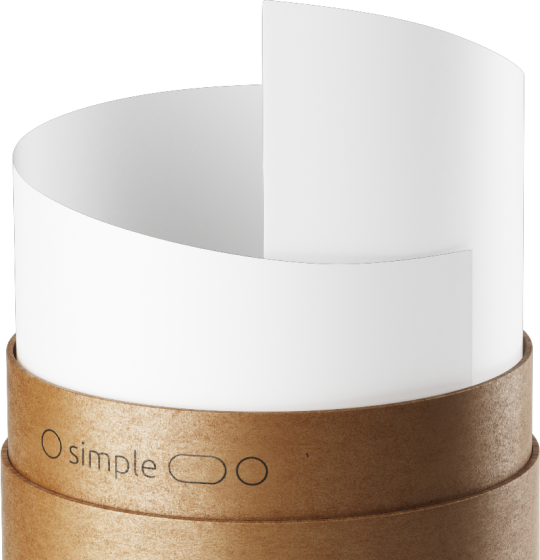
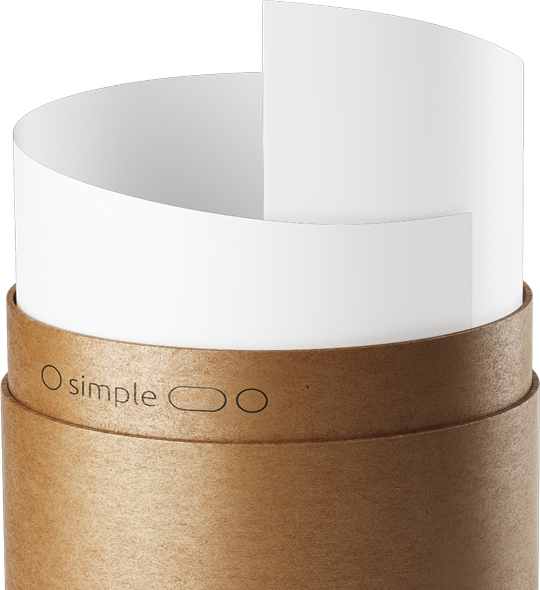
Add widget Partners

diff --git a/src/components/widgets/Products/products.data.ts b/src/components/widgets/Products/products.data.ts
@@ -10,7 +10,7 @@ export const products = [
 		circulation: 20,
 		description:
 			"Сделано из крафт-бумаги или плотного картона. Упаковки имеют различные формы и расцветки, изготовим форму под заказ.",
-		delay: 0.2
+		delay: 0.4
 	},
 	{
 		image: ProductImageTwo,
@@ -18,7 +18,7 @@ export const products = [
 		circulation: 200,
 		description:
 			"С прямоугольным дном. От 10 см до 60 см по высоте. Материалы: картон, крафт-бумага. Различные расцветки и дизайн.",
-		delay: 0.4
+		delay: 0.6
 	},
 	{
 		image: ProductImageThree,
@@ -26,7 +26,7 @@ export const products = [
 		circulation: 30,
 		description:
 			"Подойдет для документов и других бумаг. Различные расцветки, размеры и плотность. Материал: прессованная бумага.",
-		delay: 0.6
+		delay: 0.8
 	},
 	{
 		image: ProductImageFour,
@@ -34,6 +34,6 @@ export const products = [
 		circulation: 100,
 		description:
 			"Нестандартные упаковки, кейсы и другие изделия различных размеров и конфигураций. Изготовим в кратчайшие сроки.",
-		delay: 0.8
+		delay: 1.0
 	}
 ]

diff --git a/src/components/widgets/Partners/partners.data.ts b/src/components/widgets/Partners/partners.data.ts
@@ -1,0 +1,32 @@
+import PartnerLogoOne from "../../../assets/images/sponsor_1.png"
+import PartnerLogoTwo from "../../../assets/images/sponsor_2.png"
+import PartnerLogoThree from "../../../assets/images/sponsor_3.png"
+import PartnerLogoFour from "../../../assets/images/sponsor_4.png"
+import type { PartnerType } from "./partner.type.ts"
+
+export const partners: Array<PartnerType> = [
+	{
+		image: PartnerLogoOne,
+		title: "Hahnemuhle",
+		initial: { x: -100, opacity: 0 },
+		whileInView: { x: 0, opacity: 1 }
+	},
+	{
+		image: PartnerLogoTwo,
+		title: "Canson",
+		initial: { y: 100, opacity: 0 },
+		whileInView: { y: 0, opacity: 1 }
+	},
+	{
+		image: PartnerLogoThree,
+		title: "Royal Talens",
+		initial: { y: 100, opacity: 0 },
+		whileInView: { y: 0, opacity: 1 }
+	},
+	{
+		image: PartnerLogoFour,
+		title: "Fabriano",
+		initial: { x: 100, opacity: 0 },
+		whileInView: { x: 0, opacity: 1 }
+	}
+]

diff --git a/src/components/widgets/Partners/Partners.tsx b/src/components/widgets/Partners/Partners.tsx
@@ -1,0 +1,34 @@
+import { type FC } from "react"
+import { motion } from "framer-motion"
+import { Container } from "../../ui"
+import { partners } from "./partners.data.ts"
+import styles from "./Partners.module.scss"
+
+const Partners: FC = () => {
+	return (
+		<section className={styles.block} id="partners">
+			<Container>
+				<ul className={styles.partners}>
+					{partners.map((partner, index) => (
+						<motion.li
+							className={styles.partner}
+							key={index}
+							initial={partner.initial}
+							whileInView={partner.whileInView}
+							transition={{ delay: 0.4, duration: 0.4 }}
+							viewport={{ once: true }}
+						>
+							<img
+								className={styles.logo}
+								src={partner.image}
+								alt={partner.title}
+							/>
+						</motion.li>
+					))}
+				</ul>
+			</Container>
+		</section>
+	)
+}
+
+export default Partners

diff --git a/src/components/widgets/Features/Features.tsx b/src/components/widgets/Features/Features.tsx
@@ -1,10 +1,10 @@
-import { type FC, useRef, forwardRef } from "react"
+import { type FC, useRef } from "react"
 import { motion } from "framer-motion"
 import FeatureImageFour from "../../../assets/images/features_4.png"
 import { Container } from "../../ui"
-import styles from "./Features.module.scss"
 import FeaturePoint from "./FeaturePoint/FeaturePoint.tsx"
 import { features } from "./features.data.ts"
+import styles from "./Features.module.scss"
 
 const Features: FC = () => {
 	const scrollContentRef = useRef(null)

diff --git a/src/components/widgets/Header/Header.tsx b/src/components/widgets/Header/Header.tsx
@@ -36,7 +36,9 @@ const Header: FC = () => {
 			viewport={{ once: true }}
 		>
 			<Container customStyles={styles.block}>
-				<img className={styles.logo} src={Logo} alt="simple" />
+				<AnchorLink anchor="root">
+					<img className={styles.logo} src={Logo} alt="simple" />
+				</AnchorLink>
 
 				<nav className={styles.navigation}>
 					<AnchorLink text="Преимущества" anchor="features" />

diff --git a/src/App.tsx b/src/App.tsx
@@ -1,5 +1,11 @@
 import { type FC } from "react"
-import { Header, Intro, Features, Products } from "./components/widgets"
+import {
+	Header,
+	Intro,
+	Features,
+	Products,
+	Partners
+} from "./components/widgets"
 import "./assets/styles/general.scss"
 
 const App: FC = () => {
@@ -9,6 +15,7 @@ const App: FC = () => {
 			<Intro />
 			<Features />
 			<Products />
+			<Partners />
 		</>
 	)
 }

diff --git a/src/components/widgets/Partners/Partners.module.scss b/src/components/widgets/Partners/Partners.module.scss
@@ -1,0 +1,23 @@
+.block {
+	padding: 90px 0;
+	background-color: #EBEBEB;
+}
+
+.partners {
+	display: grid;
+	grid-template-columns: repeat(4, 1fr);
+	gap: 30px;
+	list-style: none;
+}
+
+.partner {
+	height: 135px;
+	padding: 18px;
+	border: 2px solid #C4C4C4;
+}
+
+.logo {
+	width: 100%;
+	height: 100%;
+	object-fit: contain;
+}

diff --git a/src/components/widgets/index.ts b/src/components/widgets/index.ts
@@ -1,4 +1,5 @@
 export { default as Features } from "./Features/Features.tsx"
 export { default as Header } from "./Header/Header.tsx"
 export { default as Intro } from "./Intro/Intro.tsx"
+export { default as Partners } from "./Partners/Partners.tsx"
 export { default as Products } from "./Products/Products.tsx"

diff --git a/src/components/widgets/Partners/partner.type.ts b/src/components/widgets/Partners/partner.type.ts
@@ -1,0 +1,8 @@
+import { type TargetAndTransition } from "framer-motion"
+
+export type PartnerType = {
+	image: string
+	title: string
+	initial: TargetAndTransition
+	whileInView: TargetAndTransition
+}

diff --git a/src/components/widgets/Intro/Intro.module.scss b/src/components/widgets/Intro/Intro.module.scss
@@ -1,6 +1,6 @@
 
 .intro {
-	margin-top: 140px;
+	margin-top: 110px;
 }
 
 .block {
@@ -33,5 +33,5 @@
 	position: relative;
 	z-index: -1;
 	width: 540px;
-	height: 560px;
+	height: 590px;
 }
